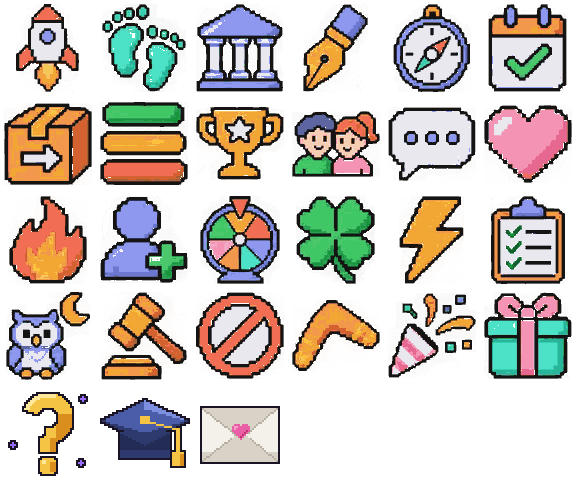
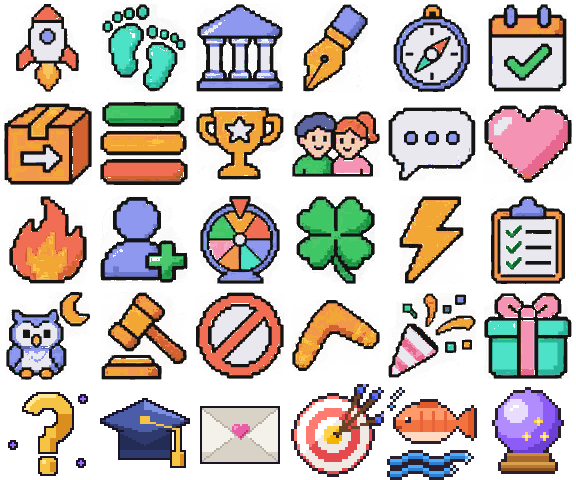
Ачивки «Единогласно», «Против течения» и «Телепат» с пиксельными эмблемами
- «Единогласно» — оценки, где ты и хотя бы двое друзей разошлись не больше чем на полбалла; «Против течения» — где твой балл дальше 4 баллов от среднего у двух друзей и больше (ступени 1, 5, 20). Мерки считает socialMetrics (levels.js) по оценкам друзей без «только я», когда при сохранении полки появилась новая оценка с баллами (friendRatings — до 90 друзей, как лента)
- «Телепат» — баллы друзей, угаданные в точку в «Угадай оценку друга» (5, 25, 100): guess.js передаёт мерку после ответа
- Эмблемы — пиксель-арт 32×32 в духе листа (мишень с тремя стрелами, рыба против течения, хрустальный шар) в последних трёх клетках /art/ach.webp; лист пересохранён без потерь, старые клетки не изменились
- nameKey (сравнение названий с друзьями) — один на обзор в «Прогрессе» и ачивки; перевод на английский и украинский; CLAUDE.md и docs/levels/steps.txt
- Тесты: совпадения с друзьями (скрытая оценка друга и один друг не считаются), мерка «Телепата» из игры

Changed region(s): [[0.5, 0.7812, 1.0, 1.0]]

diff --git a/functions/_lib/levels.js b/functions/_lib/levels.js
@@ -168,6 +168,10 @@ export const ACHIEVEMENTS = [
   { code: 'comeback', title: 'Вернулся', desc: 'Зашёл после перерыва в 30 дней', metric: '@comeback', tiers: [1], hidden: true },
   { code: 'event', title: 'Участник события', desc: 'Сделал что-нибудь в тематическую неделю', metric: '@event', tiers: [1, 3, 10] },
   { code: 'recap2026', title: 'Итоги 2026', desc: 'Посмотрел свои итоги 2026 года', special: true },
+  // оценки друзей (socialMetrics): мерки считаются, когда появилась новая оценка с баллами (сохранение полки в API)
+  { code: 'unanimous', title: 'Единогласно', desc: 'Оценки, где ты и хотя бы двое друзей разошлись не больше чем на полбалла', metric: '@unanimous', tiers: [1, 5, 20] },
+  { code: 'contrarian', title: 'Против течения', desc: 'Оценки, где твой балл дальше 4 баллов от среднего у двух друзей и больше', metric: '@contrarian', tiers: [1, 5, 20] },
+  { code: 'telepath', title: 'Телепат', desc: 'Баллы друзей, угаданные в точку в «Угадай оценку друга»', metric: '@telepath', tiers: [5, 25, 100] },
 ];
 const ACH = Object.fromEntries(ACHIEVEMENTS.map((a) => [a.code, a]));
 // опыт за ступень достижения: бронза, серебро, золото; одна ступень и особые — одинаково
@@ -1265,6 +1269,46 @@ export async function recalcUser(env, uid, { apply = false } = {}) {
 // у оценки есть баллы (не «В планах» и не «В процессе» без баллов)
 export const isScored = (r) => !!r && r.total != null && Number.isFinite(+r.total) && Array.isArray(r.scores) && r.scores.length > 0 && r.status !== 'В планах';
 export const textLen = (r) => [r.note, r.pros, r.cons].map((x) => String(x || '').trim().length).reduce((a, b) => a + b, 0);
+// одно и то же у разных людей: название без регистра, ё = е, лишние пробелы — так профиль сравнивает вкусы
+export const nameKey = (s) => String(s || '').trim().toLowerCase().replace(/ё/g, 'е').replace(/\s+/g, ' ');
+// «Единогласно» и «Против течения» (мерки @unanimous и @contrarian): мои оценки с баллом, которые оценили хотя бы
+// двое друзей (их «только я» не считаются). Единогласно — все баллы, мой и друзей, в пределах полбалла; против течения —
+// мой балл дальше 4 баллов от среднего у друзей. friends — списки оценок друзей (friendRatings)
+export function socialMetrics(mine, friends) {
+  const by = new Map();
+  for (const list of friends || []) {
+    const once = new Set();
+    for (const r of list || []) {
+      if (!r || r.example || r.vis === 'private' || !isScored(r)) continue;
+      const k = nameKey(r.name);
+      if (!k || once.has(k)) continue;
+      once.add(k);
+      (by.get(k) || by.set(k, []).get(k)).push(+r.total);
+    }
+  }
+  let unanimous = 0, contrarian = 0;
+  const seen = new Set();
+  for (const r of mine || []) {
+    if (!r || r.example || !isScored(r)) continue;
+    const k = nameKey(r.name);
+    if (!k || seen.has(k)) continue;
+    seen.add(k);
+    const t = by.get(k);
+    if (!t || t.length < 2) continue;
+    const me = +r.total, all = [me, ...t];
+    if (Math.max(...all) - Math.min(...all) <= 0.5 + 1e-9) unanimous++;
+    if (Math.abs(me - t.reduce((s, v) => s + v, 0) / t.length) >= 4 - 1e-9) contrarian++;
+  }
+  return { unanimous, contrarian };
+}
+// списки оценок друзей (до 90 друзей, как лента) — для socialMetrics
+export async function friendRatings(env, uid) {
+  const { results: fr } = await env.DB.prepare("SELECT CASE WHEN a = ?1 THEN b ELSE a END AS id FROM friendships WHERE (a = ?1 OR b = ?1) AND status = 'accepted'").bind(uid).all();
+  const ids = (fr || []).map((x) => x.id).slice(0, 90);
+  if (!ids.length) return [];
+  const { results } = await env.DB.prepare(`SELECT data FROM shelves WHERE user_id IN (${ids.map(() => '?').join(',')})`).bind(...ids).all();
+  return (results || []).map((s) => { try { const d = JSON.parse(s.data || '{}'); return Array.isArray(d) ? d : d.ratings || []; } catch (e) { return []; } });
+}
 const isFull = (r) => isScored(r) && r.scores.length >= 2 && r.scores.every((s) => +s.v > 0) && !!r.photo;
 const stamp = (r) => +new Date(r.createdAt || r.updatedAt || 0) || 0;
 // «Разбор альбома»: у оценки альбома trackCount — сколько треков, skip — номера пропущенных, tracks — баллы треков внутри

diff --git a/lang-uk.js b/lang-uk.js
@@ -3774,7 +3774,14 @@ window.CasualLangPack = {
 "Сыграй в «Угадай оценку друга»":"Зіграй у «Вгадай оцінку друга»",
 "Проверить":"Перевірити",
 "Ты":"Ти",
-"В Мнении — кнопка «Угадай оценку друга» в шапке: угадай баллы друзей ползунком и нажми «Проверить». Нужны друзья с оценками":"У Думці — кнопка «Вгадай оцінку друга» в шапці: вгадай бали друзів повзунком і натисни «Перевірити». Потрібні друзі з оцінками"
+"В Мнении — кнопка «Угадай оценку друга» в шапке: угадай баллы друзей ползунком и нажми «Проверить». Нужны друзья с оценками":"У Думці — кнопка «Вгадай оцінку друга» в шапці: вгадай бали друзів повзунком і натисни «Перевірити». Потрібні друзі з оцінками",
+// достижения «Единогласно», «Против течения», «Телепат» (levels.js → ACHIEVEMENTS)
+"Единогласно":"Одностайно",
+"Оценки, где ты и хотя бы двое друзей разошлись не больше чем на полбалла":"Оцінки, де ти й щонайменше двоє друзів розійшлися не більше ніж на пів бала",
+"Против течения":"Проти течії",
+"Оценки, где твой балл дальше 4 баллов от среднего у двух друзей и больше":"Оцінки, де твій бал далі ніж на 4 бали від середнього у двох друзів і більше",
+"Телепат":"Телепат",
+"Баллы друзей, угаданные в точку в «Угадай оценку друга":"Бали друзів, угадані точно у «Вгадай оцінку друга"
 },
   // слово после числа: та же форма по-украински (числа у языков одинаковые: 1 оцінка, 2 оцінки, 5 оцінок)
   nouns: [

diff --git a/levels-ui.js b/levels-ui.js
@@ -1090,11 +1090,15 @@ html.unslop .lv-toast .lv-big, html.unslop .lv-t0 { background: var(--accent, #3
     comeback: ['#67E8F9', '#0E7490', '<path d="M9 7L4.5 11.5 9 16"/><path d="M4.5 11.5H14a5.5 5.5 0 0 1 0 11h-2"/>'],
     event: ['#F0ABFC', '#A21CAF', '<rect x="4" y="5" width="16" height="15" rx="2.5"/><path d="M4 9.5h16M8.5 3.5v3M15.5 3.5v3"/><path d="M12 12l1 2 2.2.3-1.6 1.5.4 2.2-2-1-2 1 .4-2.2-1.6-1.5 2.2-.3z"/>'],
     recap2026: ['#FDE68A', '#CA8A04', '<rect x="4" y="9" width="16" height="11" rx="2"/><path d="M3 9h18v-3H3zM12 6v14M12 6c-1-2.5-4.5-2.5-4.5-.5S10 6 12 6zm0 0c1-2.5 4.5-2.5 4.5-.5S14 6 12 6z"/>'],
+    unanimous: ['#FCA5A5', '#DC2626', '<circle cx="12" cy="12" r="9"/><circle cx="12" cy="12" r="5"/><circle cx="12" cy="12" r="1"/>'],
+    contrarian: ['#93C5FD', '#2563EB', '<path d="M6.5 12c3-4.5 9-4.5 12 0-3 4.5-9 4.5-12 0zM6.5 12 3 9v6z"/><path d="M15 11h.01"/>'],
+    telepath: ['#C4B5FD', '#7C3AED', '<circle cx="12" cy="10" r="6.5"/><path d="M7 20h10M9 16.5 8 20M15 16.5l1 3.5"/>'],
   };
   // пиксельная эмблема: клетка листа /art/ach.webp (6×5) — порядок клеток свой, не порядок ACH_ART: новые достижения
   // дописываются в конец листа и сюда же (незнакомый код — как у «Критика»)
   const ACH_SHEET = ['founder', 'first_steps', 'critic', 'reviewer', 'omnivore', 'finisher', 'moved', 'tiermaker', 'masterpiece', 'soul', 'chatter', 'fan',
-    'popular', 'recruiter', 'auctioneer', 'lucky', 'rhythm', 'questor', 'night', 'strict', 'nope', 'comeback', 'event', 'recap2026', 'riddler', 'mentor', 'invited'];
+    'popular', 'recruiter', 'auctioneer', 'lucky', 'rhythm', 'questor', 'night', 'strict', 'nope', 'comeback', 'event', 'recap2026', 'riddler', 'mentor', 'invited',
+    'unanimous', 'contrarian', 'telepath']; // лист заполнен: следующему достижению — новый ряд в /art/ach.webp
   function achPx(code) {
     if (code === 'first10') return '<i class="lv-px vasyan"></i>'; // эмблема — сам Васян
     const i = ACH_SHEET.indexOf(code), k = i < 0 ? ACH_SHEET.indexOf('critic') : i;

diff --git a/functions/api/[[path]].js b/functions/api/[[path]].js
@@ -8,7 +8,7 @@ import { albumTracks, friendsAlbum, trackPreview } from '../_lib/album.js';
 import { NOTES } from '../_lib/admin-changes.js';
 import { LOT_NAME, MAX_LOTS, STICKER_RE, cleanLive, LIVE_OWNER, liveBusy, liveLots, spinLive, resetLive, stopAuto, settledLive, liveTx, liveView } from '../_lib/lots-live.js';
 import { ONLINE_MS, GUEST_RE, onlineCount, friendsAndIncoming, touchUsers, touchGuests, spanMs } from '../_lib/presence.js';
-import { awardMany as lvAwardMany, revokeMany as lvRevokeMany, visit as lvVisit, shelfDiff, tierDone, nightNow, levelsOn, onSeasonClose, currentEvent, CAT_GROUPS } from '../_lib/levels.js';
+import { awardMany as lvAwardMany, revokeMany as lvRevokeMany, visit as lvVisit, shelfDiff, tierDone, nightNow, levelsOn, onSeasonClose, currentEvent, CAT_GROUPS, socialMetrics, friendRatings } from '../_lib/levels.js';
 import { makeLevelsRoutes, acceptInvite, tzOf, ensurePast, KIND_LABEL } from '../_lib/levels-api.js';
 import { makeShopRoutes } from '../_lib/shop-api.js';
 import { makeMailoutRoutes, rememberLang } from '../_lib/mailout.js';
@@ -1374,7 +1374,10 @@ const routes = {
       const diff = shelfDiff(old.ratings, merged);
       if (diff.take.length) await lvRevokeMany(env, me.id, diff.take.slice(0, 500));
       const night = diff.give.some((x) => x.kind === 'rate') && nightNow(now, tzOf(request)) ? 1 : 0;
-      if (diff.give.length) await lvGive(env, request, me, me.id, diff.give, { metrics: { ...diff.metrics, night } });
+      // новая оценка с баллами — сверить с оценками друзей («Единогласно», «Против течения»)
+      let social = {};
+      if (diff.give.some((x) => x.kind === 'rate')) { try { social = socialMetrics(merged, await friendRatings(env, me.id)); } catch (e) { console.error('social metrics', e && e.message); } }
+      if (diff.give.length) await lvGive(env, request, me, me.id, diff.give, { metrics: { ...diff.metrics, night, ...social } });
     }
     return json({ ok: true, updatedAt: updated, count: merged.length, catsAt: catsOut ? catsOut.at : null });
   },

diff --git a/lang-en.js b/lang-en.js
@@ -3808,7 +3808,14 @@ window.CasualLangPack = {
 "Сыграй в «Угадай оценку друга»":"Play “Guess a friend’s rating”",
 "Проверить":"Check",
 "Ты":"You",
-"В Мнении — кнопка «Угадай оценку друга» в шапке: угадай баллы друзей ползунком и нажми «Проверить». Нужны друзья с оценками":"In Opinion — the “Guess a friend’s rating” button in the header: guess your friends’ scores with the slider and press “Check”. You need friends with ratings"
+"В Мнении — кнопка «Угадай оценку друга» в шапке: угадай баллы друзей ползунком и нажми «Проверить». Нужны друзья с оценками":"In Opinion — the “Guess a friend’s rating” button in the header: guess your friends’ scores with the slider and press “Check”. You need friends with ratings",
+// достижения «Единогласно», «Против течения», «Телепат» (levels.js → ACHIEVEMENTS)
+"Единогласно":"Unanimous",
+"Оценки, где ты и хотя бы двое друзей разошлись не больше чем на полбалла":"Ratings where you and at least two friends were within half a point",
+"Против течения":"Against the current",
+"Оценки, где твой балл дальше 4 баллов от среднего у двух друзей и больше":"Ratings where your score is over 4 points from the average of two or more friends",
+"Телепат":"Telepath",
+"Баллы друзей, угаданные в точку в «Угадай оценку друга":"Friends’ scores guessed spot on in “Guess a friend’s rating"
 },
   // слово после числа: 1 оценка, 5 оценок. [все русские формы, одна штука, несколько]
   nouns: [

diff --git a/functions/_lib/guess.js b/functions/_lib/guess.js
@@ -124,7 +124,15 @@ export function makeGuessRoutes(h) {
       const score = st.items.reduce((s, x, k) => s + (guesses[k] == null ? 0 : pointsFor(guesses[k], x.total)), 0);
       const w = await env.DB.prepare('UPDATE guess_days SET answers = ?, score = ?, done_at = ? WHERE user_id = ? AND day = ? AND answers IS NULL').bind(JSON.stringify(guesses), score, now, me.id, day).run();
       if (!(w.meta && w.meta.changes)) return fail(409, 'Сегодня ты уже угадывал. Завтра — новые оценки.');
-      if (h.lvGive) { try { await h.lvGive(env, request, me, me.id, [{ kind: 'guess', ref: day }]); } catch (e) { console.error('guess xp', e && e.message); } }
+      if (h.lvGive) {
+        try {
+          // «Телепат» (мерка @telepath): сколько всего баллов друзей угадано в точку, за все дни
+          const { results: all } = await env.DB.prepare('SELECT items, answers FROM guess_days WHERE user_id = ? AND answers IS NOT NULL').bind(me.id).all();
+          let telepath = 0;
+          for (const row of all || []) { const it = parse(row.items, []), an = parse(row.answers, []); it.forEach((x, k) => { if (an[k] != null && pointsFor(an[k], x.total) === 3) telepath++; }); }
+          await h.lvGive(env, request, me, me.id, [{ kind: 'guess', ref: day }], { metrics: { telepath } });
+        } catch (e) { console.error('guess xp', e && e.message); }
+      }
       return json(await stateOf(env, me.id, now));
     },
   };

diff --git a/functions/_lib/levels-api.js b/functions/_lib/levels-api.js
@@ -6,7 +6,7 @@ import {
   levelsMode, levelsOn, ensureLevels, readLevel, levelView, prefsOf, lookOf, unlockedAt, levelsOf, achievementsOf, questState,
   firstSteps, takeNews, dayKey, weekStart, shiftDay, cleanTz, backfillUser, grantSpecial, currentEvent, forgetEvent, RULES, awardMany, CAT_GROUPS, RATING_KINDS,
   ACHIEVEMENTS, REWARDS, NAME_COLORS, PROFILE_BGS, isScored, textLen, award, INVITE_REWARDS, EVENT_REWARDS, INV_SQL, invitesOf, STREAK_BONUS, FIRST_STEPS,
-  achBackLetter, ACH_TIER_XP, ACH_ONE_XP, swapQuest, recalcUser,
+  achBackLetter, ACH_TIER_XP, ACH_ONE_XP, swapQuest, recalcUser, nameKey,
   SEASON_RANKS, seasonRankOf, rankFields, currentSeason, closeSeason, forgetSeason, seasonXpOf, seasonXpMany, seasonPlanLetter, fmtKyiv,
 } from './levels.js';
 import { FOODS, boughtLooks, ensureShop } from './shop.js';
@@ -798,5 +798,3 @@ export async function recap(env, uid, year) {
     music, modes, hot, roflans,
   };
 }
-// название оценки для сравнения с друзьями — так же, как профиль сравнивает вкусы (без регистра, ё = е, пробелы)
-const nameKey = (s) => String(s || '').trim().toLowerCase().replace(/ё/g, 'е').replace(/\s+/g, ' ');

diff --git a/CLAUDE.md b/CLAUDE.md
@@ -83,7 +83,8 @@
 - Задания дня — `user_level.quests`: `{ l: коды, s: 1 }` (`s` — бесплатная замена на сегодня потрачена; старый формат — просто список). Замена — `swapQuest` (`POST /levels/quest/swap`): одна в день, только невыполненного, новое — из тех, что можно выдать (`questOk`), кроме уже выданных.
 - У каждого задания в `DAILY` / `WEEKLY` есть `hint` — строка под названием в «Прогрессе»: где это делается и что именно засчитывается (пороги: отзыв — «Плюсы», «Минусы» и «Заметки» вместе от 100 знаков, комментарий от 10, тир-лист от 8 карточек). Поменял правило — поправь подсказку; название и подсказка должны быть в `lang-en.js` и `lang-uk.js` (проверяют тесты).
 - Тир-лист засчитывается (опыт `tier`, задание недели, первый шаг), когда в нём впервые набралось 8 карточек (`tierDone` в `levels.js`), а не при первом сохранении: страница Тир-листов отправляет его в аккаунт уже через 1,5 с после названия или первой карточки.
-- Эмблемы достижений — клетки листа `/art/ach.webp` (6×5) в порядке `ACH_SHEET` из `levels-ui.js`, а не в порядке `ACH_ART`. Новое достижение — клетка в конце листа и его код в конце `ACH_SHEET`.
+- Эмблемы достижений — клетки листа `/art/ach.webp` (6×5, клетка 96×96 — пиксель-арт 32×32 ×3) в порядке `ACH_SHEET` из `levels-ui.js`, а не в порядке `ACH_ART`. Новое достижение — клетка в конце листа и его код в конце `ACH_SHEET`. Лист заполнен (30 из 30): следующему достижению — новый ряд (лист 576×576). Сохраняй лист WebP без потерь (Pillow: `lossless=True`): `canvas.toBlob('image/webp', 1)` в браузере сжимает с потерями, и пиксели плывут.
+- Мерки «Единогласно» и «Против течения» (`@unanimous`, `@contrarian`) считает `socialMetrics` по оценкам друзей (без «только я»), когда при сохранении полки появилась новая оценка с баллами; «Телепат» (`@telepath`) — `guess.js` после ответа.
 - Таблица «За что сколько опыта» в «Обзоре»: цифры и лимиты — из `RULES` (`xpRules` в `/levels/me`), подписи — `XP_TABLE` в `levels-ui.js`. Новое правило в `RULES` — допиши туда строку.
 - «Итоги 2026» (вкладка «Прогресса», 1 декабря — 31 января) — `recap()` в `levels-api.js`, экраны по одному — `VIEWS.recap` в `levels-ui.js`, картинка — `drawRecap`. Режимы в итогах считаются по журналу `xp_log` (по видам, без снятого), «самая спорная» — по оценкам друзей без «только я». Админ видит вкладку заранее, ачивку `recap2026` это не выдаёт. Новый режим, который стоит показать в итогах, — его вид в `modes` и плитка в «Режимах и заданиях».
 - Новогодний календарь (декабрь 2026, дни по Киеву) — `functions/_lib/advent.js`, блок вверху «Почты» (`adventBox`): подарок дня — рофланы в `shop_log` (reason `advent`), забирают кнопкой только в свой день (`POST /levels/advent`), пока не забран — +1 к непрочитанному. За 20 забранных дней — рамка «Новый год» (`frame8`).
